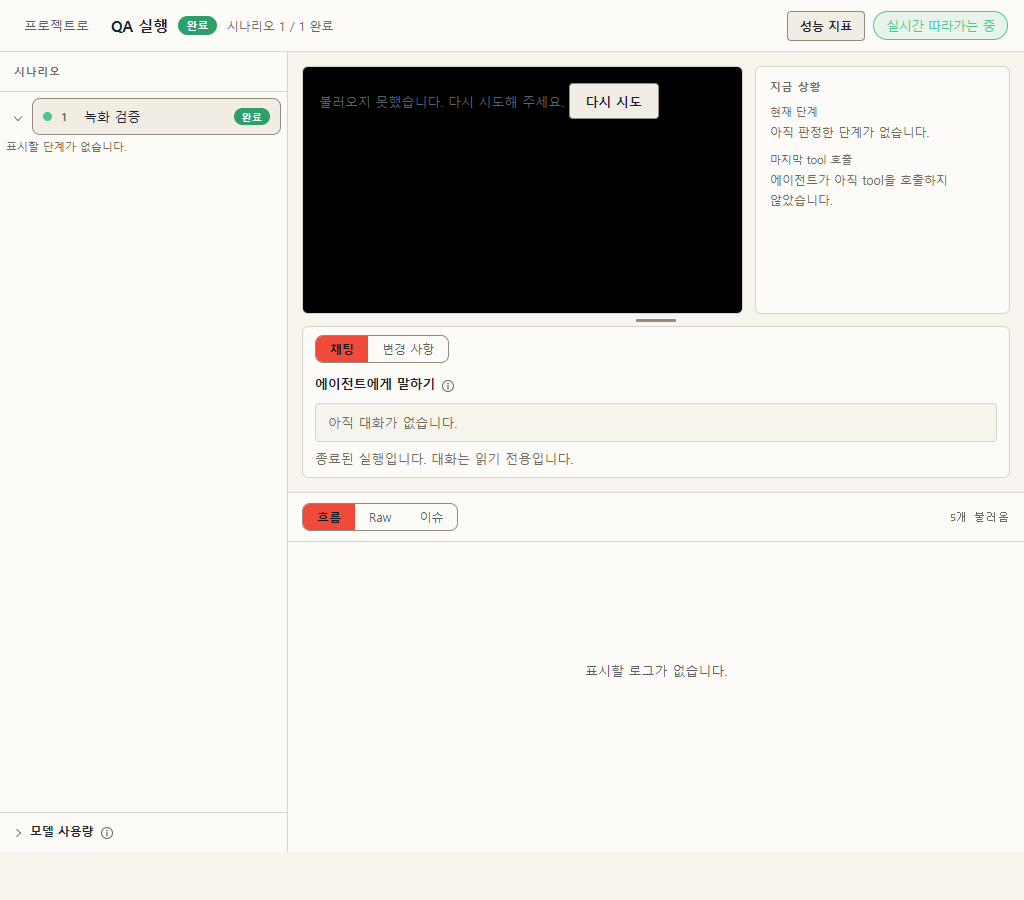
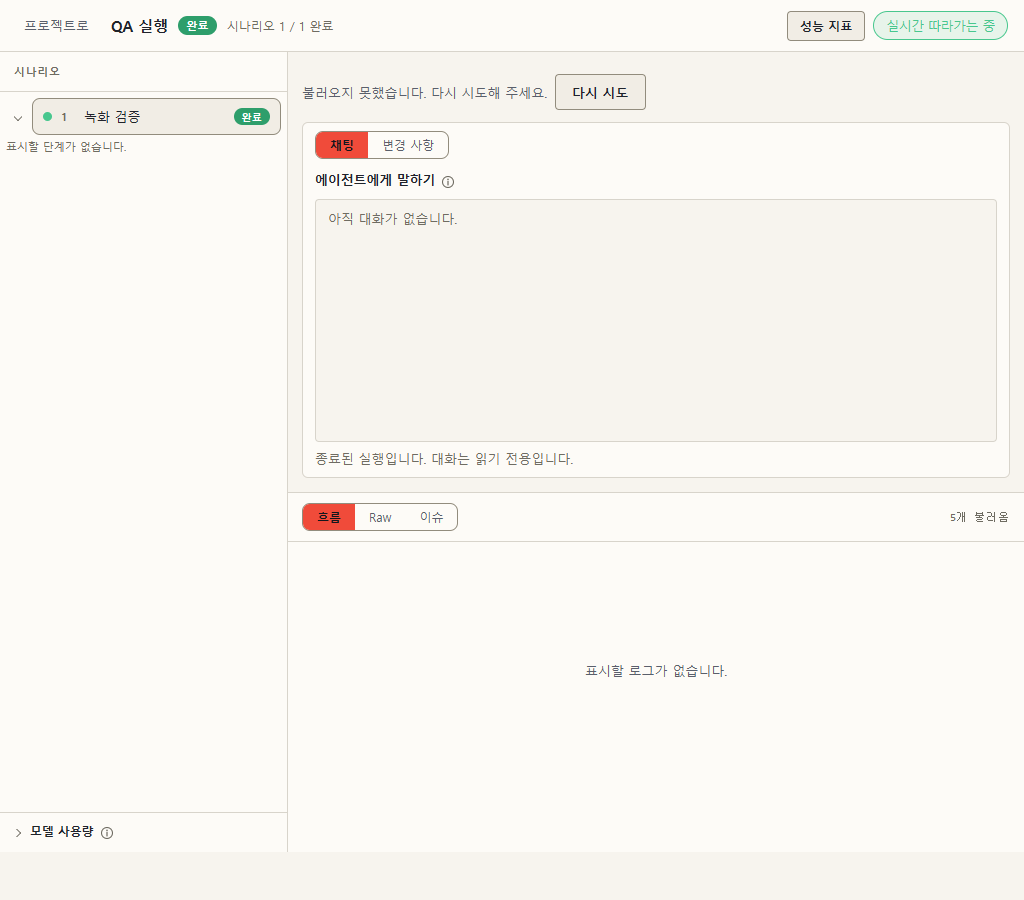
fix(qa): 영상 없는 실행의 빈 플레이어 영역 제거

Changed region(s): [[0.2812, 0.0622, 0.9375, 0.4356], [0.3438, 0.4667, 0.4375, 0.4978]]

diff --git a/src/qa/QaReplay.tsx b/src/qa/QaReplay.tsx
@@ -125,13 +125,15 @@ export function QaReplay({ projectId, qaTry, onPosition, timelineHost }: {
     setMediaFailed(false)
     setReload(value => value + 1)
   }
-  if (failed) return <div className="qa-replay-status" role="alert">{evidence.error} <button className="button button--secondary" type="button" onClick={refresh}>{evidence.retry}</button></div>
-  if (!data) return <p className="qa-replay-status" role="status">{evidence.loading}</p>
-  if (!bounds) return <p className="qa-replay-status">{evidence.unavailable}</p>
+  if (failed) return <div className="qa-replay-status qa-replay-without-video" role="alert">{evidence.error} <button className="button button--secondary" type="button" onClick={refresh}>{evidence.retry}</button></div>
+  if (!data) return <p className="qa-replay-status qa-replay-without-video" role="status">{evidence.loading}</p>
+  if (!bounds) return <p className="qa-replay-status qa-replay-without-video">{evidence.unavailable}</p>
   const expired = data.playback.recording?.expiresAt != null && Date.parse(data.playback.recording.expiresAt) <= data.loadedAt
+  const hasVideo = !expired && !mediaFailed && data.playback.segments.some(candidate => candidate.state === 'READY' && candidate.url !== null && Date.parse(candidate.endedAt) > bounds.start && Date.parse(candidate.startedAt) < bounds.end)
+  const preparing = data.playback.segments.some(candidate => candidate.state !== 'READY' && candidate.state !== 'EXPIRED')
 
   return <>
-    <div className="qa-replay-screen">
+    {hasVideo ? <div className="qa-replay-screen">
       {segment && !mediaFailed ? <video key={segment.id} ref={videoRef} src={segment.url!} muted playsInline preload="metadata" aria-label={evidence.video}
         onLoadedMetadata={event => {
           const video = event.currentTarget
@@ -154,8 +156,11 @@ export function QaReplay({ projectId, qaTry, onPosition, timelineHost }: {
           else if (Date.parse(segment.endedAt) < bounds.end) seek(Date.parse(segment.endedAt), false, false)
           else { resumeRef.current = false; setPlaying(false); setTimestamp(bounds.end); positionRef.current(bounds.end, false) }
         }} /> : <p role="status">{expired ? evidence.expired : mediaFailed ? evidence.error : data.playback.recording === null ? evidence.unavailable : evidence.gap}</p>}
-    </div>
-    {timelineHost && createPortal(<QaExecutionTimeline bounds={bounds} timestamp={currentTime} playback={data.playback} attempts={data.attempts} playing={playing} playable={segment !== null && !mediaFailed} onSeek={seek} onRefresh={refresh} onTogglePlay={() => {
+    </div> : <div className="qa-replay-status qa-replay-without-video" role={mediaFailed ? 'alert' : 'status'}>
+      {expired ? evidence.expired : mediaFailed ? evidence.error : preparing ? evidence.loading : evidence.unavailable}
+      {mediaFailed && <button className="button button--secondary" type="button" onClick={refresh}>{evidence.retry}</button>}
+    </div>}
+    {timelineHost && createPortal(<QaExecutionTimeline bounds={bounds} timestamp={currentTime} playback={data.playback} attempts={data.attempts} playing={playing} playable={hasVideo && segment !== null} onSeek={seek} onRefresh={refresh} onTogglePlay={() => {
       const video = videoRef.current
       if (!video) return
       if (video.paused) { resumeRef.current = true; void video.play().catch(() => setPlaying(false)) }

diff --git a/.plan/assets/qa-replay/fixture.tsx b/.plan/assets/qa-replay/fixture.tsx
@@ -39,7 +39,12 @@ window.fetch=async input=>{
  if(path.endsWith('/logs') && historyMode){if(url.searchParams.has('beforeId')){Object.assign(window,{historyPageReads:1});return response({items:[],hasMore:false,nextBeforeId:null})}return response({items:logs,hasMore:true,nextBeforeId:'1'})}
  if(path.endsWith('/logs') && Reflect.get(window,'failNextContext')) { return response({},503) }
  if(path.endsWith('/logs'))return response({items:url.searchParams.has('beforeId')?logs.slice(0,4):logs.slice(4),hasMore:!url.searchParams.has('beforeId'),nextBeforeId:url.searchParams.has('beforeId')?null:'5'})
- if(path.endsWith('/recording') && mode.has('error')) return response({},503)
+ if(path.endsWith('/recording') && mode.has('error') && !Reflect.get(window,'recordingRecovered')) return response({},503)
+
+
+ if(path.endsWith('/recording') && mode.has('media-error') && !Reflect.get(window,'mediaRecovered'))return response({recording:{id:'recording',startedAt:at(0),endedAt:at(8),expiresAt:at(86400*30),error:null},segments:[{...segment('broken',0,8),url:location.origin+'/.plan/assets/qa-replay/missing-video.mp4'}],gaps:[]})
+ if(path.endsWith('/recording') && mode.has('no-recording'))return response({recording:null,segments:[],gaps:[]})
+ if(path.endsWith('/recording') && (mode.has('no-segments') || mode.has('pending')))return response({recording:{id:'recording',startedAt:at(0),endedAt:at(8),expiresAt:at(86400*30),error:null},segments:mode.has('pending')?[{...segment('pending',0,8),state:'PENDING',url:null}]:[],gaps:[]})
  if(path.endsWith('/recording') && mode.has('expired'))return response({recording:{id:'recording',startedAt:at(0),endedAt:at(8),expiresAt:at(1),error:null},segments:[],gaps:[]})
  if(path.endsWith('/recording'))return response({recording:{id:'recording',startedAt:at(0),endedAt:at(8),expiresAt:at(86400*30),error:null},segments:tail?[segment('s1',0,3)]:[segment('s1',0,3),segment('s2',5,8)],gaps:[{startedAt:at(3),endedAt:at(5),reason:'fixture gap'}]})
  if(path.endsWith('/attempts'))return response(many?(url.searchParams.has('before')?rows.slice(100):rows.slice(0,100)):rows)

diff --git a/src/qa/qaReplay.css b/src/qa/qaReplay.css
@@ -123,3 +123,12 @@
 .qa-timeline-resize:hover > span, .qa-timeline-resize[data-resizing='true'] > span { background:var(--color-action-primary); }
 .qa-timeline-resize:focus-visible { outline:2px solid var(--color-action-primary); outline-offset:2px; }
 html:has(.qa-timeline-resize[data-resizing='true']) { cursor:row-resize; user-select:none; }
+.qa-stage:has(.qa-replay-without-video) .qa-stage-top { flex:none; }
+.qa-stage:has(.qa-replay-without-video) .qa-focus-game { flex:1; width:100%; height:auto; aspect-ratio:auto; border:0; border-radius:0; background:transparent; }
+.qa-stage:has(.qa-replay-without-video) .qa-now, .qa-stage:has(.qa-replay-without-video) .qa-stage-resize { display:none; }
+.qa-stage:has(.qa-replay-without-video) .qa-stage-chat { flex:1; }
+.qa-replay-without-video { display:flex; align-items:center; flex-wrap:wrap; gap:8px; padding:8px 0 12px; }
+@media(max-width:1180px) {
+  .qa-focus-center:has(.qa-replay-without-video) { flex:none; min-height:320px; }
+  .qa-stage:has(.qa-replay-without-video) { min-height:320px; }
+}

diff --git a/.plan/assets/qa-replay/README.md b/.plan/assets/qa-replay/README.md
@@ -10,7 +10,7 @@
 
 ## 결과
 
-Chromium 화면 회귀 40개가 통과했습니다.
+Chromium 화면 회귀 59개가 통과했습니다.
 
 - 기존 영상 로드, TC 반복 시도와 시작 시각 없는 attempt 표시.
 - pulse 기본 제외·포함 전환, 메시지 필터·payload find와 Enter 이동.
@@ -46,3 +46,5 @@ Chromium 화면 회귀 40개가 통과했습니다.
 2026-11-04 develop1418c7b 통합 후 전체 테스트1635개, Chromium40개, build와 충돌 해결 파일 ESLint를 다시 확인했습니다. 모델 API 오류 안내·실행 안 함 표시와 replay 기능을 함께 유지합니다.
 
 통합 시 추가된 not_started 시나리오는 녹화 player를 mount하지 않습니다. fixture에서 공유 run 녹화가 있더라도 video와 타임라인이 표시되지 않는 회귀를 추가했습니다. not-started.png는 이 상태입니다.
+
+영상이 없거나 보관 만료·준비 중·조회 오류인 경우 큰 영상 영역을 제거하고 짧은 안내만 남깁니다. 채팅이 확보된 공간을 사용하며 유효한 시간 범위의 TC 타임라인과 로그는 유지됩니다. 일부 gap은 기존 영상 배치를 유지합니다. API·영상 파일 오류 후 재시도 복구와 무영상 상태의 양 테마·모바일 배치를 확인했습니다. no-recording-light.png, no-recording-dark.png, no-recording-mobile.png에 캡처를 남겼습니다. 이번 보완은 Chromium59개, 시간·로그 테스트11개, build 및 변경 파일 ESLint로 확인했습니다. 전체1635개 테스트는 직전 develop 통합 시 통과한 결과입니다.

diff --git a/.plan/general/2026-11-04-qa-replay-log-navigation.md b/.plan/general/2026-11-04-qa-replay-log-navigation.md
@@ -57,3 +57,5 @@ origin/develop의 evaluationApi.playback/attempts가 기존 서버 녹화와 실
 사용자 정정에 따라 타임라인 경계에서 드래그 높이 조절과 SVG 접기·펼치기를 함께 지원합니다. 타임라인은 하단 overlay로 표시하며 기존 화면 위치와 크기는 유지합니다. 추가 Chromium 검증을 포함해35개가 통과했습니다.
 
 최종 반영: 드래그로 접기·펼치기를 지원합니다. 본문은 접힌 bar49px만큼 공간을 확보하고 펼친 타임라인은 overlay로 유지합니다. 추가한 브라우저 검증을 포함해39개가 통과했습니다.
+
+영상이 없는 실행에서 큰 빈 플레이어 영역을 제거하고 채팅이 공간을 사용하도록 보완했습니다. TC 타임라인·로그는 유지하며 일부 gap은 영상 배치를 유지합니다. 영상 부재·만료·준비 중·API 및 파일 오류·재시도 복구를 포함해 Chromium59개 검증을 통과했습니다.
